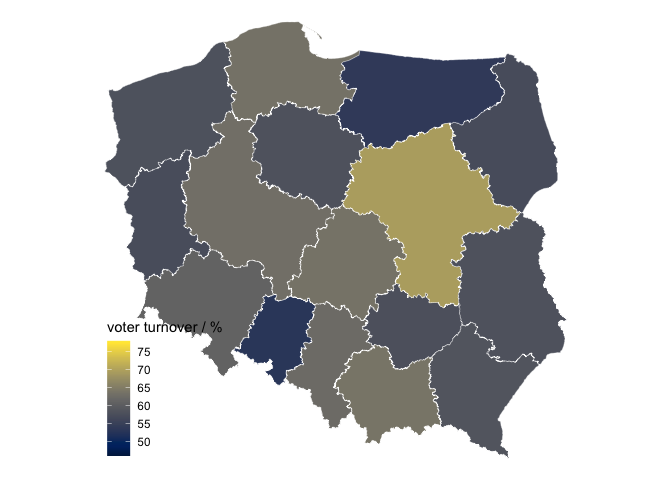
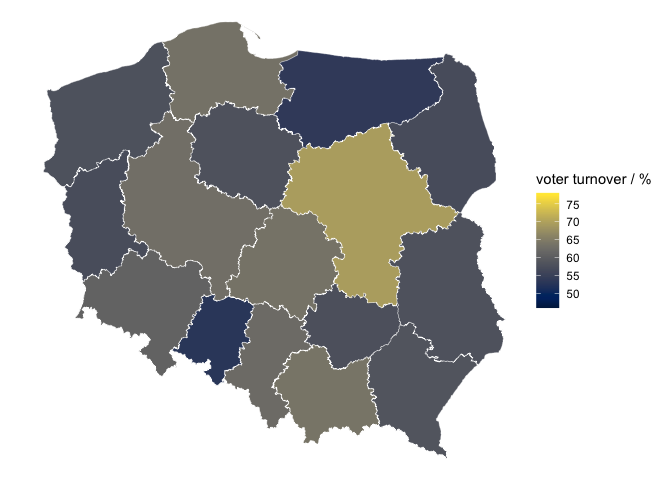
fixed legend positions

diff --git a/R/turnover.md b/R/turnover.md
@@ -5,13 +5,9 @@ The Sejm elections in Poland, 2019
 
 By voivodeship
 
-    ## `summarise()` ungrouping output (override with `.groups` argument)
-
 ![](turnover_files/figure-markdown_strict/unnamed-chunk-3-1.png)
 
 By powiat
-
-    ## `summarise()` ungrouping output (override with `.groups` argument)
 
 ![](turnover_files/figure-markdown_strict/unnamed-chunk-4-1.png)
 
